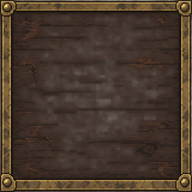
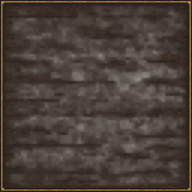
界面底图重出一版：线脚做细，字号加回去，按钮去繁
九宫格的四条边是不参与拉伸的——边越厚，中间留给文字的地方越少，
字就只能缩小、还容易压到边上。所以从源头改：
提示词里把「边框宽度不超过画面边长的二十五分之一、板面占九成以上」写死，
四角的铆钉和转角花纹一并去掉。量出来的 border 从 11 降到 3。

边细了，字号跟着加回去：顶栏 15→17、兵数 14→17、菜单条目 13→15，
菜单本身也放宽（92→106 / 104→122）、行高 30→34。

按钮那张返工过一次：只说「极简、越素越好」，模型把板面整个画没了，
只剩一圈几乎看不见的细线（background 是 transparent，它就真透明了）。
补一句「板面必须是实心填满的——这是一块木片，不是一个空心的框」才对。

diff --git a/image-studio/battleui.js b/image-studio/battleui.js
@@ -15,23 +15,31 @@ const PX =
 const NINE =
   '这张图会被程序按**九宫格拉伸**，所以必须满足三条：' +
   '**（一）上下左右四条边一样宽、花纹完全相同；' +
-  '（二）四个角的装饰完全对称，旋转 90 度能对上；' +
-  '（三）四条边之间的中间区域是一整片平整、干净、没有任何花纹和分格线的板面。**' +
-  '边框的宽度大约占画面边长的八分之一。';
+  '（二）四个角完全对称，旋转 90 度能对上；' +
+  '（三）四条边之间的中间区域是一整片平整、干净、没有任何花纹和分格线的板面。**\n' +
+  '**边框必须很细**：只是一道收边的线脚，不是宽板条。' +
+  '**线脚的宽度不超过画面边长的二十五分之一**，' +
+  '中间干净的板面要占到整幅画面的九成以上。' +
+  '（九宫格拉伸时四条边是不跟着拉的——边越厚，中间留给文字的地方越少，' +
+  '字就只能缩小、还容易压到边上。所以宁可细，不可厚。）';
 
 const NO = '画面中不得出现任何文字、字母、汉字、数字、签名、水印。' +
            '除了这一块底板什么都不要画，**不要画表示透明的灰白棋盘格**。';
 
 const ITEMS = [
   ['plate', '通用面板底',
-   '一块汉代风格的木牌：**深褐色木纹**的板面，四边包着一圈**黄铜**窄边框，' +
-   '四个角各有一枚铜铆钉。板面略有磨损和木纹的明暗变化，但整体要暗、要沉，' +
-   '因为上面要压白色的文字。'],
+   '一块汉代风格的木牌：**深褐色木纹**的板面，四边只包着一道**极细的黄铜线脚**。' +
+   '**四个角不要铆钉、不要转角花纹、不要任何装饰**——就是四条细线收个边。' +
+   '板面略有磨损和木纹的明暗变化，但整体要暗、要沉、要平，' +
+   '因为上面要压白色的文字，底子花了字就看不清。'],
 
   ['btn', '菜单按钮底',
-   '同一套木牌的**小一号版本**，用作菜单里的单条按钮：板面是**比面板略亮一档的褐木**，' +
-   '四边是一圈更细的黄铜线脚，四角不加铆钉。' +
-   '这块要显得「可以按」——板面比周围稍稍凸起，上缘有一道细高光，下缘有一道细暗边。'],
+   '一条**不透明的实心木片**：整块板面是干净平整的褐色木头，比面板亮一档，' +
+   '四周只有一道极细的深色描边。' +
+   '**板面必须是实心的、从头到尾填满的——这是一块木片，不是一个空心的框。' +
+   '绝对不能把中间画成透明或镂空的。**' +
+   '不要金线、不要双重线脚、不要高光条、不要斜面倒角、不要铆钉、不要圆角花纹——' +
+   '素一点，它只是让文字有个落脚的底，不是画面的主角。'],
 
   ['portrait', '武将头像框',
    '一个方形的**头像外框**：黄铜錾花的边框，四角是汉代风格的云雷纹转角，' +

diff --git a/unity/SangoCityView/Assets/Scripts/ClashView.cs b/unity/SangoCityView/Assets/Scripts/ClashView.cs
@@ -234,9 +234,9 @@ public class ClashView
         var topBar = Panel(field, "top", UiPlate());
         Place((RectTransform)topBar.transform, 4, 3, refW - 8, 38);
 
-        dayT = Label(field, "", 15, new Color32(0xF2,0xE8,0xD4,255));
+        dayT = Label(field, "", 17, new Color32(0xF2,0xE8,0xD4,255));
         Place(dayT.rectTransform, 20, 13, 200, 20);   // 20 是让开左边那道铜边
-        buffT = Label(field, "", 12, new Color32(0xF0,0xC8,0x70,255), TextAnchor.MiddleRight);
+        buffT = Label(field, "", 13, new Color32(0xF0,0xC8,0x70,255), TextAnchor.MiddleRight);
         Place(buffT.rectTransform, refW - 8 - 58 - 10 - 150, 13, 150, 20);
 
         // 场地比视窗宽（16 × 64 = 1024 对 375），所以套一层遮罩，里面那层拖着走。
@@ -296,11 +296,11 @@ public class ClashView
         string[] lab = { "体", "骑", "弓", "步" };
         for (int i = 0; i < 4; i++)
         {
-            var l = Label(info.transform, lab[i], 13, new Color32(0xD0,0xC0,0x98,255), TextAnchor.MiddleCenter);
+            var l = Label(info.transform, lab[i], 15, new Color32(0xD0,0xC0,0x98,255), TextAnchor.MiddleCenter);
             Place(l.rectTransform, refW / 2 - 24, 24 + i * 20, 32, 20);
-            armCount[i] = Label(info.transform, "", 14, Color.white, TextAnchor.MiddleRight);
+            armCount[i] = Label(info.transform, "", 17, Color.white, TextAnchor.MiddleRight);
             Place(armCount[i].rectTransform, refW / 2 - 130, 24 + i * 20, 100, 20);
-            foeCount[i] = Label(info.transform, "", 14, Color.white);
+            foeCount[i] = Label(info.transform, "", 17, Color.white);
             Place(foeCount[i].rectTransform, refW / 2 + 22, 24 + i * 20, 100, 20);
         }
 
@@ -312,7 +312,7 @@ public class ClashView
         var qi = quit.gameObject.AddComponent<Image>(); qi.sprite = UiBtn(); qi.type = Image.Type.Sliced;
         var qb = quit.gameObject.AddComponent<Button>(); qb.transition = Selectable.Transition.None;
         qb.onClick.AddListener(Finish);
-        var ql = Label(quit, "收兵", 12, new Color32(0xE0,0xD0,0xA8,255), TextAnchor.MiddleCenter);
+        var ql = Label(quit, "收兵", 14, new Color32(0xE0,0xD0,0xA8,255), TextAnchor.MiddleCenter);
         Fill(ql.rectTransform);
     }
 
@@ -682,7 +682,7 @@ public class ClashView
             Place((RectTransform)fi.transform, x, 6, W, h);
             fi.sprite = frame; fi.raycastTarget = false;      // 整框贴，不拉伸
         }
-        var n = Label(p, name, 13, c, TextAnchor.MiddleCenter);
+        var n = Label(p, name, 15, c, TextAnchor.MiddleCenter);
         Place(n.rectTransform, x - 6, 6 + h + 2, W + 12, 18);
     }
 
@@ -721,24 +721,24 @@ public class ClashView
     /// 点了「计策」之后的二级菜单：六个能力，点数不够的挑不动。
     void OpenSkillCmd(int col, int row)
     {
-        int w = 104, rowH = 30, h = 26 + 6 * rowH + 6;
+        int w = 122, rowH = 34, h = 30 + 6 * rowH + 8;
         PlacePop(col, row, w, h);
-        var t = Label(cmdPop, "计策 · 余 " + plotPts, 12,
+        var t = Label(cmdPop, "计策 · 余 " + plotPts, 14,
                       new Color32(0xF0,0xC8,0x70,255), TextAnchor.MiddleCenter);
-        Place(t.rectTransform, 0, 5, w, 20);
+        Place(t.rectTransform, 0, 7, w, 20);
 
         for (int i = 0; i < 6; i++)
         {
             int k = i;
             bool ok = BattleRules.SkillCost[i] <= plotPts;
             var b = Node("k" + i, cmdPop);
-            Place(b, 6, 26 + i * rowH, w - 12, rowH - 4);
+            Place(b, 8, 30 + i * rowH, w - 16, rowH - 5);
             var bi = b.gameObject.AddComponent<Image>(); bi.sprite = UiBtn(); bi.type = Image.Type.Sliced;
             bi.color = ok ? Color.white : new Color(.55f, .52f, .48f, 1f);
             var bt = b.gameObject.AddComponent<Button>(); bt.transition = Selectable.Transition.None;
             bt.interactable = ok;
             bt.onClick.AddListener(() => { CloseCmd(); UseSkill(k); });
-            var l = Label(b, BattleRules.SkillName[i] + " " + BattleRules.SkillCost[i], 12,
+            var l = Label(b, BattleRules.SkillName[i] + " " + BattleRules.SkillCost[i], 14,
                           ok ? new Color32(0xF0,0xE0,0xB8,255) : new Color32(0x86,0x7E,0x6C,255),
                           TextAnchor.MiddleCenter);
             Fill(l.rectTransform);
@@ -834,16 +834,16 @@ public class ClashView
 
     void OpenCmd(int arm, int col, int row)
     {
-        int n = OrderCount(arm), w = 92, rowH = 30, h = 26 + n * rowH + 6;
+        int n = OrderCount(arm), w = 106, rowH = 34, h = 30 + n * rowH + 8;
         PlacePop(col, row, w, h);
-        var t = Label(cmdPop, ARM[arm], 13, new Color32(0xF2,0xE8,0xD4,255), TextAnchor.MiddleCenter);
-        Place(t.rectTransform, 0, 5, w, 20);
+        var t = Label(cmdPop, ARM[arm], 15, new Color32(0xF2,0xE8,0xD4,255), TextAnchor.MiddleCenter);
+        Place(t.rectTransform, 0, 7, w, 20);
 
         for (int i = 0; i < n; i++)
         {
             int k = i;
             var b = Node("c" + i, cmdPop);
-            Place(b, 6, 26 + i * rowH, w - 12, rowH - 4);
+            Place(b, 8, 30 + i * rowH, w - 16, rowH - 5);
             var bi = b.gameObject.AddComponent<Image>(); bi.sprite = UiBtn(); bi.type = Image.Type.Sliced;
             bi.color = orders[arm] == i ? new Color(1f, .92f, .60f, 1f) : Color.white;
             var bt = b.gameObject.AddComponent<Button>(); bt.transition = Selectable.Transition.None;
@@ -852,7 +852,7 @@ public class ClashView
                 if (arm == 0 && k == 4) { OpenSkillCmd(col, row); return; }
                 orders[arm] = k; CloseCmd(); Redraw();
             });
-            var l = Label(b, ORDER[i], 13, new Color32(0xF0,0xE0,0xB8,255), TextAnchor.MiddleCenter);
+            var l = Label(b, ORDER[i], 15, new Color32(0xF0,0xE0,0xB8,255), TextAnchor.MiddleCenter);
             Fill(l.rectTransform);
         }
     }
